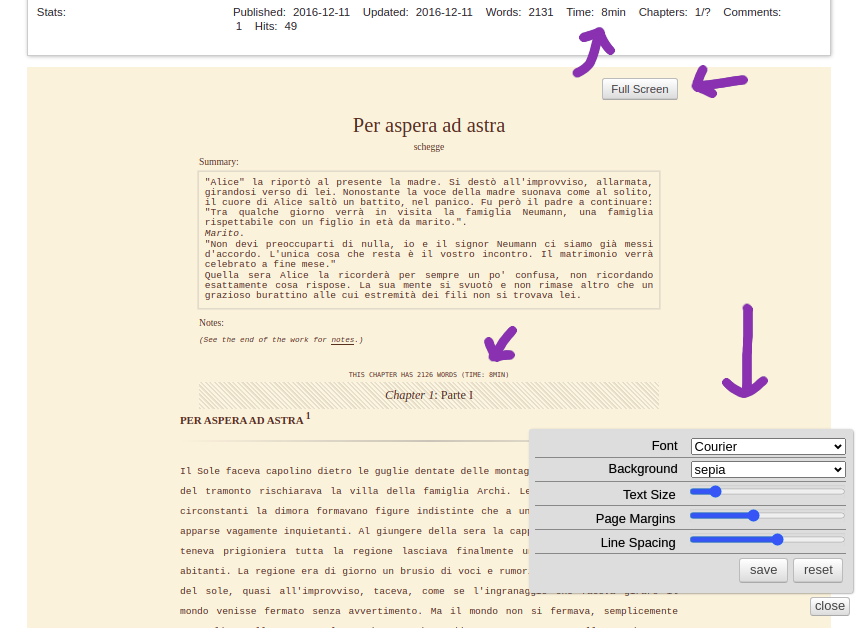
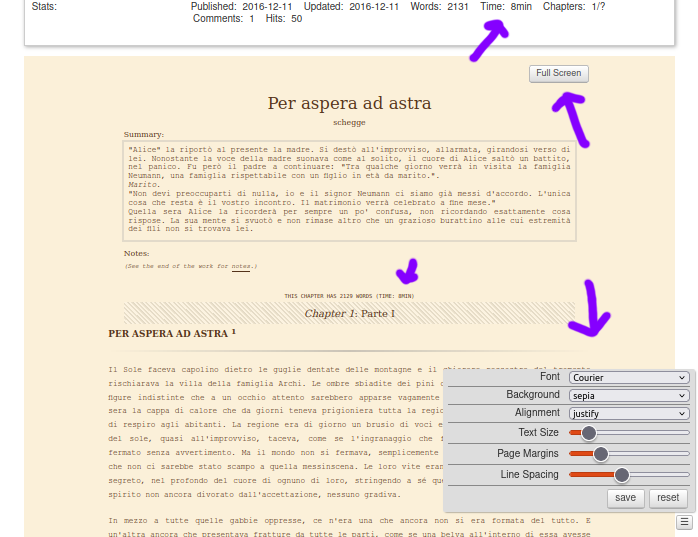
add text alignment option

diff --git a/AO3 Styling Blacklist Bookmarks.js b/AO3 Styling Blacklist Bookmarks.js
@@ -3,10 +3,10 @@
 // @namespace    https://github.com/Schegge
 // @description  Change font, size, width and background of a work + blacklist: hide works that contain certains tags or text, have too many tags/fandoms/relations/chapters/words and other options + fullscreen reading mode + bookmarks: save the position you stopped reading a fic + number of words for each chapter and estimated reading time
 // @icon         https://raw.githubusercontent.com/Schegge/Userscripts/master/images/ao3icon.png
-// @version      3.6
+// @version      3.6.1
 // @author       Schegge
 // @match        *://archiveofourown.org/*
-// @match        *://*.archiveofourown.org/*
+// @match        *://www.archiveofourown.org/*
 // @grant        GM_getValue
 // @grant        GM_setValue
 // @grant        GM.getValue
@@ -36,8 +36,8 @@ if (typeof GM == 'undefined') {
    const Check = {
       // script version
       version: async function() {
-         if (await getStorage('version', '1') !== 36) {
-            setStorage('version', 36);
+         if (await getStorage('version', '1') !== 361) {
+            setStorage('version', 361);
             return true;
          }
          return false;
@@ -58,14 +58,7 @@ if (typeof GM == 'undefined') {
 
    // new version check
    if (await Check.version()) {
-      // retrieve saved value from localstorage if they exist
-      if (localStorage.getItem(`ficstyle_feature`)) await GM.setValue('feature', localStorage.getItem(`ficstyle_feature`))
-      if (localStorage.getItem(`ficstyle_styling`)) await GM.setValue('styling', localStorage.getItem(`ficstyle_styling`))
-      if (localStorage.getItem(`ficstyle_bookmarks`)) await GM.setValue('bookmarks', localStorage.getItem(`ficstyle_bookmarks`))
-      if (localStorage.getItem(`ficstyle_blacklist`)) await GM.setValue('blacklistTags', localStorage.getItem(`ficstyle_blacklist`))
-      if (localStorage.getItem(`ficstyle_blacklist_opts`)) await GM.setValue('blacklistOpts', localStorage.getItem(`ficstyle_blacklist_opts`))
-      // notification
-      document.body.insertAdjacentHTML('beforeend', `<div style="position: fixed; bottom: 3em; right: 3em; width: 35%; z-index: 999; font-size: .9em; background: #fff; padding: 1em; border: 1px solid #900;"><b>AO3: Fic's Style, Blacklist, Bookmarks</b> UPDATES (v3.6)<br><br>You can now blacklist works that have too many <b>tags</b>, have a number of <b>chapters</b> below what you set for it, and contain certain words or phrases in the <b>title</b> and in the <b>summary</b>.<br>I've changed how to blacklist <b>authors</b>, if you were hiding someone, you have to move them in the new designated area without the @.<br><br>I've moved your saved values from the browser local storage to the userscript manager storage, there shouldn't be any loss on your part, if otherwise please contact me on greasyfork, they aren't lost.<br><br><a target="_blanket" href="https://greasyfork.org/en/scripts/10944-ao3-fic-s-style-blacklist-bookmarks">More info.</a><br><br><span id="${SN}-close" style="cursor: pointer; color: #900;">close</span>`);
+      document.body.insertAdjacentHTML('beforeend', `<div style="position: fixed; bottom: 3em; right: 3em; width: 35%; z-index: 999; font-size: .9em; background: #fff; padding: 1em; border: 1px solid #900;"><b>AO3: Fic's Style, Blacklist, Bookmarks</b> UPDATES (v3.6.1)<br><br><b>Styling</b>: You can now choose the text alignment.<br><br><span id="${SN}-close" style="cursor: pointer; color: #900;">close</span>`);
       document.getElementById(`${SN}-close`).addEventListener('click', function() { this.parentElement.style.display = 'none'; });
    }
 
@@ -260,7 +253,7 @@ if (typeof GM == 'undefined') {
       if (Feature.style) {
          addCSS(`${SN}-generalstyle`,
             `#main div.wrapper { margin-bottom: 1em; }
-            #workskin { margin: 0; text-align: justify; max-width: none!important; }
+            #workskin { margin: 0; max-width: none!important; }
             #workskin .notes, #workskin .summary, blockquote { font-size: inherit; font-family: inherit; }
             .preface a, #chapters a, .preface a:link, #chapters a:link, .preface a:visited, #chapters a:visited, .preface a:visited:hover, #chapters a:visited:hover { color: inherit !important; }
             .actions { font-family: 'Lucida Grande', 'Lucida Sans Unicode', 'GNU Unifont', Verdana, Helvetica, sans-serif; font-size: 14px; }
@@ -277,8 +270,7 @@ if (typeof GM == 'undefined') {
             h3.title a { border: 0; font-style: italic; }
             div.preface .associations, .preface .notes h3+p { margin-bottom: 0; font-style: italic; font-size: .8em; }
             #workskin #chapters, #workskin #chapters .userstuff { width: 100%!important; box-sizing: border-box; }
-            #workskin #chapters .userstuff p { font-family: inherit; text-align: justify; }
-            #workskin #chapters .userstuff { font-family: inherit; text-align: justify; }
+            #workskin #chapters .userstuff, #workskin #chapters .userstuff p { font-family: inherit; }
             #workskin #chapters .userstuff br { display: block; margin-top: .6em; content: " "; }
             .userstuff hr { width: 100%; height: 2px; border: 0; margin: 1.5em 0; background-image: linear-gradient(90deg, transparent, rgba(0, 0, 0, .2), transparent), linear-gradient(90deg, transparent, rgba(255, 255, 255, .3), transparent); }
             #workskin #chapters .userstuff blockquote { padding-top: 1px; padding-bottom: 1px; margin: 0 .5em; font-size: inherit; }
@@ -290,14 +282,16 @@ if (typeof GM == 'undefined') {
             opts: {
                fontName: 'Default',
                colors: 'light',
+               textAlign: 'justify',
                fontSize: '100',
                margins: '7',
                lineSpacing: '5'
             },
             inputs: [
-               // 0:css/id, 1:name, 2+:options
+               // 0:id, 1:name, 2+:options
                ['fontName', 'Font', 'Default', 'Arial Black', 'Helvetica', 'Verdana', 'Segoe UI', 'Garamond', 'Georgia', 'Times New Roman', 'Consolas', 'Courier'],
                ['colors', 'Background', 'light', 'grey', 'sepia', 'dark', 'darkblue', 'black'],
+               ['textAlign', 'Alignment', 'justify', 'left', 'center', 'right'],
                ['fontSize', 'Text Size', 100, 50, 300],
                ['margins', 'Page Margins', 7, 5, 40],
                ['lineSpacing', 'Line Spacing', 5, 3, 10]
@@ -330,8 +324,9 @@ if (typeof GM == 'undefined') {
             setValues: function() {
                setStorage('styling', this.opts);
                addCSS(`${SN}-userstyle`,
-                  `#workskin { font-family: ${this.fonts[this.opts.fontName]}; font-size: ${this.opts.fontSize}%; padding: 0 ${this.opts.margins}%; color: ${this.colors[this.opts.colors][1]}; background-color: ${this.colors[this.opts.colors][0]}; }
-                  #workskin #chapters .userstuff p { line-height: ${this.opts.lineSpacing * 0.3}em; margin: ${this.opts.lineSpacing * 0.5 - 1.4}em auto; } #workskin #chapters .userstuff { line-height: ${this.opts.lineSpacing * 0.3}em; }`
+                  `#workskin { font-family: ${this.fonts[this.opts.fontName]}; font-size: ${this.opts.fontSize}%; padding: 0 ${this.opts.margins}%; color: ${this.colors[this.opts.colors][1]}; background-color: ${this.colors[this.opts.colors][0]}; text-align: ${this.opts.textAlign}; }
+                  #workskin #chapters .userstuff { line-height: ${this.opts.lineSpacing * 0.3}em; text-align: ${this.opts.textAlign}; }
+                  #workskin #chapters .userstuff p { line-height: ${this.opts.lineSpacing * 0.3}em; margin: ${this.opts.lineSpacing * 0.5 - 1.4}em auto; text-align: ${this.opts.textAlign}; }`
                );
             },
             html: function() {

diff --git a/AO3 Styling Blacklist Bookmarks Description.md b/AO3 Styling Blacklist Bookmarks Description.md
@@ -1,0 +1,81 @@
+# AO3: Fic's Style, Blacklist, Bookmarks
+
+## Features
+![Features](https://i.imgur.com/6RYzF0q.png)
+
+- **Styling**
+- **Bookmarks / Full Screen**
+- **Blacklist**
+- **Words per minute**
+
+   ![Words](https://i.imgur.com/LR7aTNM.png)
+   - The *estimated reading time* for the entire fanfiction and each chapter is calculated based on the number you set for it (default is 250; put 0 (zero) to disable it).
+ 
+- Disabling the features *doesn't* erase the values saved previously
+
+
+### Styling
+![Styling](https://i.imgur.com/R9c53Al.png)
+
+- Empty paragraphs and multiple line breaks are hidden.
+- You can change different options of the **styling** of the text:
+   - Font
+   - Background (and text color)
+   - (Text) Alignment
+   - Text Size
+   - Page Margins
+   - Lines Spacing
+ 
+- The menu where you can change the values only appear on the fanfiction page at the bottom right of the window (as &#9776;, click on it to open). Your preferences will be applied on all fanfictions.
+
+
+### Bookmarks / Full Screen
+![Bookmarks](https://i.imgur.com/qOKKLxC.png)
+![Full Screen](https://i.imgur.com/lWckT7K.png)
+
+- You can save the **reading position** for later.
+- To create a new bookmark, you first have to open the Full Screen.
+- To continue reading from a bookmark, click on the fanfiction's title in the Bookmarks menu on top, then on "Go to Bookmark".
+- **Symbols** (in Full Screen):
+   - \+ : set new bookmark
+   - x : delete bookmark
+ 
+- *Important*: The bookmarks are the position of the scrollbar when you click the "+" on the bottom left. They are saved in percent so if you change the styling they won't be totally wrong. But if you set a bookmark on the "entire work" of a still ongoing fanfiction, it's going to be saved in pixels, because if a new chapter is added the percent is going to be totally wrong, but the bookmark is going to be wrong in pixels if you change the styling. so, **advice**: save the bookmark on chapters not on the entire work of a ongoing fanfiction.
+- In Full Screen summaries and notes are hidden, to read them just hover on them with the mouse.
+
+
+### Blacklist
+![Blacklist](https://i.imgur.com/1yuSXJv.png)
+
+- The Blacklist appears only on pages that contain a list of fanfictions.
+- You can completely hide blacklisted works or show the reasons why they're blacklisted.
+- You can pause the blacklist.
+- When searching you can hide works that contain certain **tags** (ratings, warnings, categories, completion status, relationships, characters, fandoms, freeforms, bookmarker's tags), words or phrases in the **title** and in the **summary**, and **authors** that match your **rules** (they aren't case-sensitive).
+- Use a **comma** to separate the different rules.
+   - Example in the Tags area: drabble, gun violence, explicit, work in progress
+ 
+- Use **\*** for wildcards.
+   - Example in the Tags area:
+   - \*fluff\* (tags containing 'fluff')
+   - \*fluff (tags ending with 'fluff')
+   - fluff\* (tags starting with 'fluff')
+   - \*magic\* au (tags starting with whatever, containing 'magic' in the middle and ending with a white space plus 'au')
+   - and every other combination
+ 
+- Use **&&** to hide works that contains a pair of words, it will match any text that contains at least the pair.
+   - Example in the Tags area: potter&&tom riddle, original\*character&&/, child&&abuse
+   - (it can be used only once in the same rule, one&&two&&three or more won't work)
+ 
+- Use **&!** to hide works with romantic relationships that include only one person of your favourite ship (it can only be used in the Tags area).
+   - Example: harry potter&!draco malfoy
+   - (it hides all works that contain these two characters in other romantic relationships)
+ 
+- *Note:* Tags and Authors areas will hide works that exactly matched a tag or an author with one of your rule, unless you use wildcards or the other symbols above. Instead, Titles, Summaries area will hide works that contains specified words or phrases.
+   - In Titles, Summaries area it's for example unnecessary to write \*lorem ipsum\*, you can just write lorem ipsum
+ 
+- You can hide works that aren't in your specified **languages**. To disable the option leave it empty.
+- You can hide works that have too many **relationships** and **fandoms**, or that have too few or too many **words** (in *thousands*, so if you put "5" it refers to 5k words) and **chapters**, or **incompleted** works that have been last updated *some months* ago. To disable the options put 0 (zero) or leave them empty.
+
+---
+
+*Please report bugs*. Script tested on the last version of Chrome and Firefox (with Violentmonkey, Tampermonkey and Greasemonkey)
